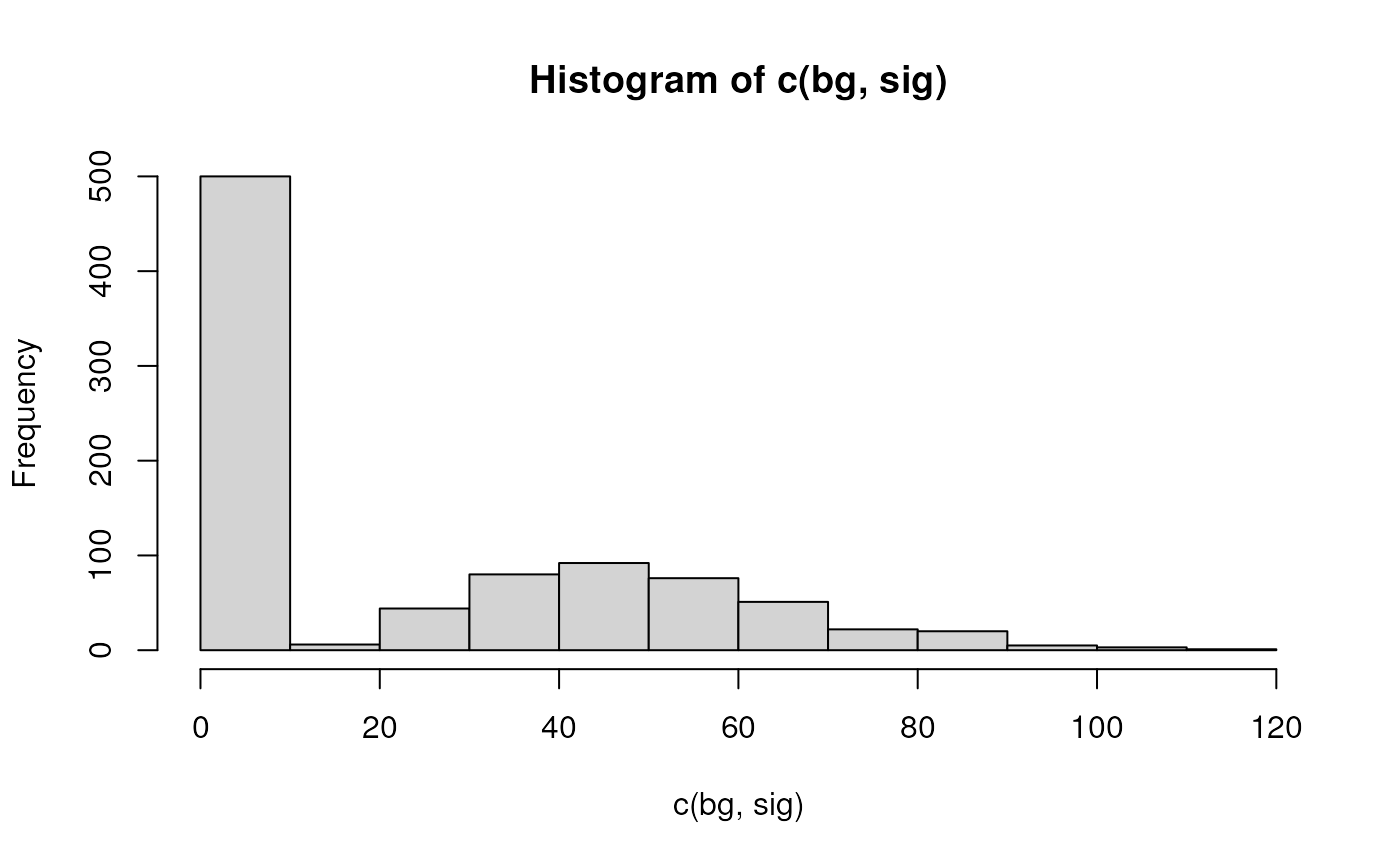
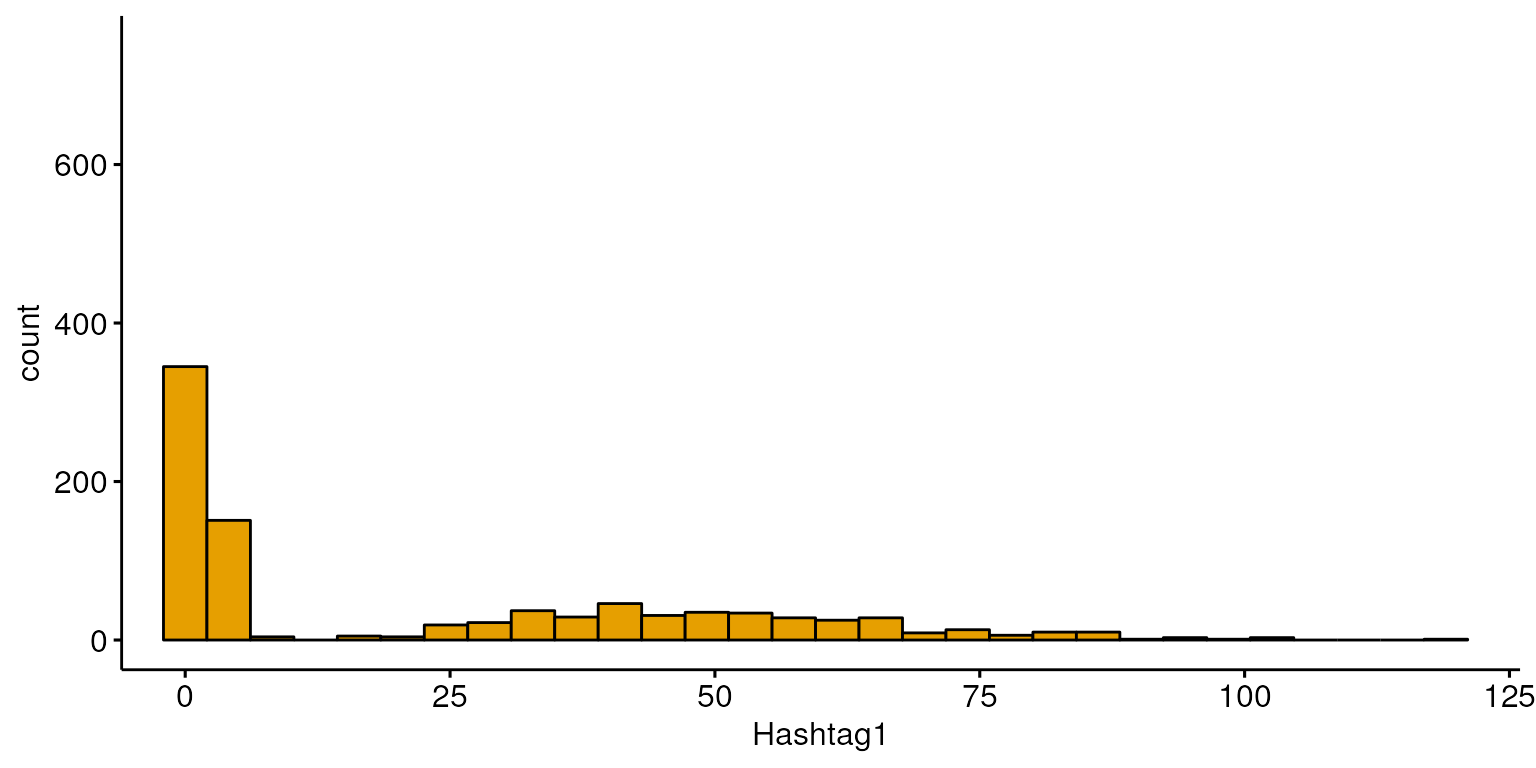
Deploying to gh-pages from @ michaelplynch/demultiplexing-bioc23@4068ee3ce7f346f419e210faec720cbf64df320c 🚀

diff --git a/articles/intro-to-demultiplexing.html b/articles/intro-to-demultiplexing.html
@@ -50,7 +50,7 @@
   </a>
   <ul class="dropdown-menu" role="menu">
 <li>
-      <a href="../articles/demuxSNP.html">Supervised Demultiplexing using Cell Hashing and SNPs</a>
+      <a href="../articles/demuxSNP.html">demuxSNP: supervised demultiplexing using cell hashing and SNPs</a>
     </li>
     <li>
       <a href="../articles/hashing_benchmarking.html">Simulated benchmarking of hashing based algorithms</a>
@@ -115,7 +115,7 @@ Lynch</h4>
 in TME and other areas. Sequencing costs are decreasing but remains a
 limiting factor in sample size.</p>
 <p>For full analysis pipelines see ‘link to OSCA’.</p>
-<p>Multiplexing allows cells from multple biological samples to be
+<p>Multiplexing allows cells from multiple biological samples to be
 laoded simultaneously on the same lane</p>
 <div class="float">
 <img src="./images/scrnaseq.png" alt="alt text here "><div class="figcaption">alt text here </div>
@@ -181,8 +181,8 @@ quality rather than RNA quality.</p>
 <h5 id="overall">Overall:<a class="anchor" aria-label="anchor" href="#overall"></a>
 </h5>
 <div class="sourceCode" id="cb5"><pre class="downlit sourceCode r">
-<code class="sourceCode R"><span><span class="fu"><a href="https://rdrr.io/pkg/ComplexHeatmap/man/Heatmap.html" class="external-link">Heatmap</a></span><span class="op">(</span><span class="fu"><a href="https://rdrr.io/r/base/Log.html" class="external-link">log</a></span><span class="op">(</span><span class="fu"><a href="https://rdrr.io/r/base/matrix.html" class="external-link">as.matrix</a></span><span class="op">(</span><span class="va">hto</span><span class="op">)</span><span class="op">+</span><span class="fl">1</span><span class="op">)</span>,cluster_rows<span class="op">=</span><span class="cn">FALSE</span><span class="op">)</span></span></code></pre></div>
-<p><img src="intro-to-demultiplexing_files/figure-html/unnamed-chunk-4-1.png" width="700"></p>
+<code class="sourceCode R"><span><span class="fu"><a href="https://rdrr.io/pkg/ComplexHeatmap/man/Heatmap.html" class="external-link">Heatmap</a></span><span class="op">(</span><span class="fu"><a href="https://rdrr.io/r/base/Log.html" class="external-link">log</a></span><span class="op">(</span><span class="fu"><a href="https://rdrr.io/r/base/matrix.html" class="external-link">as.matrix</a></span><span class="op">(</span><span class="va">hto</span><span class="op">)</span><span class="op">+</span><span class="fl">1</span><span class="op">)</span>,cluster_rows<span class="op">=</span><span class="cn">FALSE</span>,show_column_names <span class="op">=</span> <span class="cn">FALSE</span><span class="op">)</span></span></code></pre></div>
+<p><img src="intro-to-demultiplexing_files/figure-html/unnamed-chunk-4-1.png" width="100%"></p>
 </div>
 <div class="section level5">
 <h5 id="per-cell">Per cell:<a class="anchor" aria-label="anchor" href="#per-cell"></a>
@@ -194,23 +194,27 @@ quality rather than RNA quality.</p>
 <span><span class="co"># barplot(mat)</span></span>
 <span></span>
 <span><span class="fu"><a href="https://rdrr.io/r/graphics/barplot.html" class="external-link">barplot</a></span><span class="op">(</span><span class="va">hto</span><span class="op">[</span>,<span class="fl">9</span><span class="op">]</span><span class="op">)</span></span></code></pre></div>
-<p><img src="intro-to-demultiplexing_files/figure-html/unnamed-chunk-5-1.png" width="700"></p>
+<p><img src="intro-to-demultiplexing_files/figure-html/unnamed-chunk-5-1.png" width="100%"></p>
+<div class="sourceCode" id="cb7"><pre class="downlit sourceCode r">
+<code class="sourceCode R"><span><span class="va">df</span><span class="op">&lt;-</span><span class="fu"><a href="https://rdrr.io/r/base/data.frame.html" class="external-link">data.frame</a></span><span class="op">(</span><span class="va">hto</span><span class="op">)</span></span>
+<span><span class="va">df</span><span class="op">$</span><span class="va">group</span><span class="op">&lt;-</span><span class="fu"><a href="https://rdrr.io/r/base/colnames.html" class="external-link">rownames</a></span><span class="op">(</span><span class="va">df</span><span class="op">)</span></span>
+<span><span class="fu"><a href="https://ggplot2.tidyverse.org/reference/ggplot.html" class="external-link">ggplot</a></span><span class="op">(</span>data<span class="op">=</span><span class="va">df</span>, <span class="fu"><a href="https://ggplot2.tidyverse.org/reference/aes.html" class="external-link">aes</a></span><span class="op">(</span>x<span class="op">=</span><span class="va">group</span>, y<span class="op">=</span><span class="va">AAGCCGCGTTGTCTTT</span><span class="op">)</span><span class="op">)</span> <span class="op">+</span></span>
+<span>  <span class="fu"><a href="https://ggplot2.tidyverse.org/reference/geom_bar.html" class="external-link">geom_bar</a></span><span class="op">(</span>stat<span class="op">=</span><span class="st">"identity"</span><span class="op">)</span></span></code></pre></div>
+<p><img src="intro-to-demultiplexing_files/figure-html/unnamed-chunk-5-2.png" width="100%"></p>
 </div>
 <div class="section level5">
 <h5 id="per-hashtag">Per hashtag<a class="anchor" aria-label="anchor" href="#per-hashtag"></a>
 </h5>
 <p>Hashtag counts across a Hashtag (bimodal distriution)</p>
-<div class="sourceCode" id="cb7"><pre class="downlit sourceCode r">
+<div class="sourceCode" id="cb8"><pre class="downlit sourceCode r">
 <code class="sourceCode R"><span><span class="fu"><a href="https://rdrr.io/r/base/Random.html" class="external-link">set.seed</a></span><span class="op">(</span><span class="fl">1</span><span class="op">)</span></span>
 <span><span class="va">bg</span><span class="op">&lt;-</span><span class="fu"><a href="https://rdrr.io/r/stats/NegBinomial.html" class="external-link">rnbinom</a></span><span class="op">(</span>n<span class="op">=</span><span class="fl">500</span>,size<span class="op">=</span><span class="fl">5</span>,mu<span class="op">=</span><span class="fl">2</span><span class="op">)</span></span>
 <span><span class="va">sig</span><span class="op">&lt;-</span><span class="fu"><a href="https://rdrr.io/r/stats/NegBinomial.html" class="external-link">rnbinom</a></span><span class="op">(</span>n<span class="op">=</span><span class="fl">400</span>,size<span class="op">=</span><span class="fl">10</span>,mu<span class="op">=</span><span class="fl">50</span><span class="op">)</span></span>
-<span><span class="fu"><a href="https://rdrr.io/r/graphics/hist.html" class="external-link">hist</a></span><span class="op">(</span><span class="fu"><a href="https://rdrr.io/r/base/c.html" class="external-link">c</a></span><span class="op">(</span><span class="va">bg</span>,<span class="va">sig</span><span class="op">)</span><span class="op">)</span></span></code></pre></div>
-<p><img src="intro-to-demultiplexing_files/figure-html/unnamed-chunk-6-1.png" width="700"></p>
-<div class="sourceCode" id="cb8"><pre class="downlit sourceCode r">
-<code class="sourceCode R"><span><span class="va">df</span><span class="op">&lt;-</span><span class="fu"><a href="https://rdrr.io/r/base/data.frame.html" class="external-link">data.frame</a></span><span class="op">(</span><span class="fu"><a href="https://rdrr.io/r/base/c.html" class="external-link">c</a></span><span class="op">(</span><span class="va">bg</span>,<span class="va">sig</span><span class="op">)</span><span class="op">)</span></span>
+<span></span>
+<span><span class="va">df</span><span class="op">&lt;-</span><span class="fu"><a href="https://rdrr.io/r/base/data.frame.html" class="external-link">data.frame</a></span><span class="op">(</span><span class="fu"><a href="https://rdrr.io/r/base/c.html" class="external-link">c</a></span><span class="op">(</span><span class="va">bg</span>,<span class="va">sig</span><span class="op">)</span><span class="op">)</span></span>
 <span><span class="fu"><a href="https://rdrr.io/r/base/colnames.html" class="external-link">colnames</a></span><span class="op">(</span><span class="va">df</span><span class="op">)</span><span class="op">&lt;-</span><span class="st">"Hashtag1"</span></span>
 <span><span class="fu"><a href="https://rpkgs.datanovia.com/ggpubr/reference/gghistogram.html" class="external-link">gghistogram</a></span><span class="op">(</span><span class="va">df</span>, x <span class="op">=</span> <span class="st">"Hashtag1"</span>, fill <span class="op">=</span> <span class="fu"><a href="https://rdrr.io/pkg/dittoSeq/man/dittoColors.html" class="external-link">dittoColors</a></span><span class="op">(</span><span class="fl">1</span><span class="op">)</span><span class="op">[</span><span class="fl">1</span><span class="op">]</span>, palette <span class="op">=</span> <span class="st">"lancet"</span>, xlim <span class="op">=</span> <span class="fu"><a href="https://rdrr.io/r/base/c.html" class="external-link">c</a></span><span class="op">(</span><span class="fl">0</span>, <span class="fl">120</span><span class="op">)</span>, ylim <span class="op">=</span> <span class="fu"><a href="https://rdrr.io/r/base/c.html" class="external-link">c</a></span><span class="op">(</span><span class="fl">0</span>, <span class="fl">750</span><span class="op">)</span>, alpha <span class="op">=</span> <span class="fl">1</span>,bins<span class="op">=</span><span class="fl">30</span><span class="op">)</span></span></code></pre></div>
-<p><img src="intro-to-demultiplexing_files/figure-html/unnamed-chunk-6-2.png" width="700"></p>
+<p><img src="intro-to-demultiplexing_files/figure-html/unnamed-chunk-6-1.png" width="100%"></p>
 <p>Reduction in hashing quality leads to reduction in cell hashing
 algorithm performance.</p>
 </div>
@@ -221,9 +225,16 @@ algorithm performance.</p>
 <p>The second class of methods exploits natural genetic variation
 between cells and so can only be used where the groups are genetically
 distinct.</p>
+<div class="sourceCode" id="cb9"><pre class="downlit sourceCode r">
+<code class="sourceCode R"><span><span class="fu">knitr</span><span class="fu">::</span><span class="fu"><a href="https://rdrr.io/pkg/knitr/man/include_graphics.html" class="external-link">include_graphics</a></span><span class="op">(</span><span class="st">"./images/snps.png"</span><span class="op">)</span></span></code></pre></div>
+<div class="figure">
+<img src="images/snps.png" alt="SNP variation between individuals" width="154"><p class="caption">
+SNP variation between individuals
+</p>
+</div>
 <p>Below we describe a simplified example of what SNP data may look
 like.</p>
-<div class="sourceCode" id="cb9"><pre class="downlit sourceCode r">
+<div class="sourceCode" id="cb10"><pre class="downlit sourceCode r">
 <code class="sourceCode R"><span><span class="fu"><a href="https://rdrr.io/r/base/Random.html" class="external-link">set.seed</a></span><span class="op">(</span><span class="fl">1</span><span class="op">)</span></span>
 <span><span class="va">n</span><span class="op">=</span><span class="fu"><a href="https://rdrr.io/r/base/c.html" class="external-link">c</a></span><span class="op">(</span><span class="fl">50</span>,<span class="fl">50</span>,<span class="fl">50</span>,<span class="fl">50</span><span class="op">)</span></span>
 <span><span class="va">nsnps</span><span class="op">=</span><span class="fl">20</span></span>
@@ -238,21 +249,21 @@ like.</p>
 <span><span class="va">tot_mixed</span><span class="op">&lt;-</span><span class="va">snps_mat</span><span class="op">[</span>,<span class="fu"><a href="https://rdrr.io/r/base/sample.html" class="external-link">sample</a></span><span class="op">(</span><span class="fl">1</span><span class="op">:</span><span class="fu"><a href="https://rdrr.io/r/base/sum.html" class="external-link">sum</a></span><span class="op">(</span><span class="va">n</span><span class="op">)</span><span class="op">)</span><span class="op">]</span></span>
 <span></span>
 <span><span class="fu"><a href="https://rdrr.io/pkg/ComplexHeatmap/man/Heatmap.html" class="external-link">Heatmap</a></span><span class="op">(</span><span class="va">snps_mat</span>,cluster_columns<span class="op">=</span><span class="cn">FALSE</span>,cluster_rows<span class="op">=</span><span class="cn">FALSE</span>,col<span class="op">=</span><span class="va">colors</span><span class="op">)</span></span></code></pre></div>
-<p><img src="intro-to-demultiplexing_files/figure-html/unnamed-chunk-7-1.png" width="700"></p>
-<div class="sourceCode" id="cb10"><pre class="downlit sourceCode r">
-<code class="sourceCode R"><span><span class="fu"><a href="https://rdrr.io/pkg/ComplexHeatmap/man/Heatmap.html" class="external-link">Heatmap</a></span><span class="op">(</span><span class="va">tot_mixed</span>,cluster_columns <span class="op">=</span> <span class="cn">FALSE</span>,cluster_rows<span class="op">=</span><span class="cn">FALSE</span>,col<span class="op">=</span><span class="va">colors</span><span class="op">)</span></span></code></pre></div>
-<p><img src="intro-to-demultiplexing_files/figure-html/unnamed-chunk-7-2.png" width="700"></p>
+<p><img src="intro-to-demultiplexing_files/figure-html/unnamed-chunk-8-1.png" width="700"></p>
 <div class="sourceCode" id="cb11"><pre class="downlit sourceCode r">
+<code class="sourceCode R"><span><span class="fu"><a href="https://rdrr.io/pkg/ComplexHeatmap/man/Heatmap.html" class="external-link">Heatmap</a></span><span class="op">(</span><span class="va">tot_mixed</span>,cluster_columns <span class="op">=</span> <span class="cn">FALSE</span>,cluster_rows<span class="op">=</span><span class="cn">FALSE</span>,col<span class="op">=</span><span class="va">colors</span><span class="op">)</span></span></code></pre></div>
+<p><img src="intro-to-demultiplexing_files/figure-html/unnamed-chunk-8-2.png" width="700"></p>
+<div class="sourceCode" id="cb12"><pre class="downlit sourceCode r">
 <code class="sourceCode R"><span><span class="fu"><a href="https://rdrr.io/pkg/ComplexHeatmap/man/Heatmap.html" class="external-link">Heatmap</a></span><span class="op">(</span><span class="va">tot_mixed</span>,cluster_columns <span class="op">=</span> <span class="cn">TRUE</span>,cluster_rows<span class="op">=</span><span class="cn">FALSE</span>,row_gap <span class="op">=</span> <span class="fu"><a href="https://rdrr.io/r/grid/unit.html" class="external-link">unit</a></span><span class="op">(</span><span class="fl">1</span>, <span class="st">"mm"</span><span class="op">)</span>,</span>
 <span>    column_gap <span class="op">=</span> <span class="fu"><a href="https://rdrr.io/r/grid/unit.html" class="external-link">unit</a></span><span class="op">(</span><span class="fl">1</span>, <span class="st">"mm"</span><span class="op">)</span>,column_split<span class="op">=</span><span class="fl">4</span>, col<span class="op">=</span><span class="va">colors</span><span class="op">)</span></span></code></pre></div>
-<p><img src="intro-to-demultiplexing_files/figure-html/unnamed-chunk-7-3.png" width="700"></p>
+<p><img src="intro-to-demultiplexing_files/figure-html/unnamed-chunk-8-3.png" width="700"></p>
 <p>Sequencing depth, ambient RNA, mutations</p>
 </div>
 </div>
 <div class="section level3">
 <h3 id="sessioninfo">Sessioninfo<a class="anchor" aria-label="anchor" href="#sessioninfo"></a>
 </h3>
-<div class="sourceCode" id="cb12"><pre class="downlit sourceCode r">
+<div class="sourceCode" id="cb13"><pre class="downlit sourceCode r">
 <code class="sourceCode R"><span><span class="fu"><a href="https://rdrr.io/r/utils/sessionInfo.html" class="external-link">sessionInfo</a></span><span class="op">(</span><span class="op">)</span></span></code></pre></div>
 <pre><code><span><span class="co">## R version 4.3.1 (2023-06-16)</span></span>
 <span><span class="co">## Platform: x86_64-pc-linux-gnu (64-bit)</span></span>

diff --git a/articles/demuxSNP.html b/articles/demuxSNP.html
@@ -5,13 +5,13 @@
 <meta charset="utf-8">
 <meta http-equiv="X-UA-Compatible" content="IE=edge">
 <meta name="viewport" content="width=device-width, initial-scale=1.0">
-<title>Supervised Demultiplexing using Cell Hashing and SNPs • demultiplexingbioc23</title>
+<title>demuxSNP: supervised demultiplexing using cell hashing and SNPs • demultiplexingbioc23</title>
 <!-- jquery --><script src="https://cdnjs.cloudflare.com/ajax/libs/jquery/3.4.1/jquery.min.js" integrity="sha256-CSXorXvZcTkaix6Yvo6HppcZGetbYMGWSFlBw8HfCJo=" crossorigin="anonymous"></script><!-- Bootstrap --><link href="https://cdnjs.cloudflare.com/ajax/libs/bootswatch/3.4.0/flatly/bootstrap.min.css" rel="stylesheet" crossorigin="anonymous">
 <script src="https://cdnjs.cloudflare.com/ajax/libs/twitter-bootstrap/3.4.1/js/bootstrap.min.js" integrity="sha256-nuL8/2cJ5NDSSwnKD8VqreErSWHtnEP9E7AySL+1ev4=" crossorigin="anonymous"></script><!-- bootstrap-toc --><link rel="stylesheet" href="../bootstrap-toc.css">
 <script src="../bootstrap-toc.js"></script><!-- Font Awesome icons --><link rel="stylesheet" href="https://cdnjs.cloudflare.com/ajax/libs/font-awesome/5.12.1/css/all.min.css" integrity="sha256-mmgLkCYLUQbXn0B1SRqzHar6dCnv9oZFPEC1g1cwlkk=" crossorigin="anonymous">
 <link rel="stylesheet" href="https://cdnjs.cloudflare.com/ajax/libs/font-awesome/5.12.1/css/v4-shims.min.css" integrity="sha256-wZjR52fzng1pJHwx4aV2AO3yyTOXrcDW7jBpJtTwVxw=" crossorigin="anonymous">
 <!-- clipboard.js --><script src="https://cdnjs.cloudflare.com/ajax/libs/clipboard.js/2.0.6/clipboard.min.js" integrity="sha256-inc5kl9MA1hkeYUt+EC3BhlIgyp/2jDIyBLS6k3UxPI=" crossorigin="anonymous"></script><!-- headroom.js --><script src="https://cdnjs.cloudflare.com/ajax/libs/headroom/0.11.0/headroom.min.js" integrity="sha256-AsUX4SJE1+yuDu5+mAVzJbuYNPHj/WroHuZ8Ir/CkE0=" crossorigin="anonymous"></script><script src="https://cdnjs.cloudflare.com/ajax/libs/headroom/0.11.0/jQuery.headroom.min.js" integrity="sha256-ZX/yNShbjqsohH1k95liqY9Gd8uOiE1S4vZc+9KQ1K4=" crossorigin="anonymous"></script><!-- pkgdown --><link href="../pkgdown.css" rel="stylesheet">
-<script src="../pkgdown.js"></script><meta property="og:title" content="Supervised Demultiplexing using Cell Hashing and SNPs">
+<script src="../pkgdown.js"></script><meta property="og:title" content="demuxSNP: supervised demultiplexing using cell hashing and SNPs">
 <meta property="og:description" content="demultiplexingbioc23">
 <!-- mathjax --><script src="https://cdnjs.cloudflare.com/ajax/libs/mathjax/2.7.5/MathJax.js" integrity="sha256-nvJJv9wWKEm88qvoQl9ekL2J+k/RWIsaSScxxlsrv8k=" crossorigin="anonymous"></script><script src="https://cdnjs.cloudflare.com/ajax/libs/mathjax/2.7.5/config/TeX-AMS-MML_HTMLorMML.js" integrity="sha256-84DKXVJXs0/F8OTMzX4UR909+jtl4G7SPypPavF+GfA=" crossorigin="anonymous"></script><!--[if lt IE 9]>
 <script src="https://oss.maxcdn.com/html5shiv/3.7.3/html5shiv.min.js"></script>
@@ -50,7 +50,7 @@
   </a>
   <ul class="dropdown-menu" role="menu">
 <li>
-      <a href="../articles/demuxSNP.html">Supervised Demultiplexing using Cell Hashing and SNPs</a>
+      <a href="../articles/demuxSNP.html">demuxSNP: supervised demultiplexing using cell hashing and SNPs</a>
     </li>
     <li>
       <a href="../articles/hashing_benchmarking.html">Simulated benchmarking of hashing based algorithms</a>
@@ -81,8 +81,8 @@
       </header><div class="row">
   <div class="col-md-9 contents">
     <div class="page-header toc-ignore">
-      <h1 data-toc-skip>Supervised Demultiplexing using Cell Hashing and
-SNPs</h1>
+      <h1 data-toc-skip>demuxSNP: supervised demultiplexing using cell
+hashing and SNPs</h1>
                         <h4 data-toc-skip class="author">Michael
 Lynch</h4>
             <address class="author_afil">
@@ -113,56 +113,21 @@ Culhane</h4>
 <div class="section level2">
 <h2 id="introduction">Introduction<a class="anchor" aria-label="anchor" href="#introduction"></a>
 </h2>
-<p>Multiplexing in scRNAseq involves the sequencing of samples from
-different patients, treatment types or physiological locations together,
-resulting in significant cost savings. The cells must then be
-demultiplexed, or assigned back to their respective groups. A number of
-experimental and computational methods have been proposed to facilitate
-this, but a universally robust algorithm remains elusive. Below, we
-introduce some existing methods, highlight the novel features of our
-approach and its advantages to the user.</p>
+<p>Reminder, demultiplexing allows reduction of sequencing costs by
+sequencing cells from mulitple biological sampels on the same lane, as
+well as allowing identifying of the increased proportion of doublets
+associated with greater cells loaded. Poor demultiplexing performance
+results in waste in valuable data, reduction in LFC used in DE or
+otherwise potentailly confusing results.</p>
 <div class="section level3">
 <h3 id="existing-methods">Existing Methods<a class="anchor" aria-label="anchor" href="#existing-methods"></a>
 </h3>
-<div class="section level4">
-<h4 id="cell-hashing">Cell Hashing<a class="anchor" aria-label="anchor" href="#cell-hashing"></a>
-</h4>
-<p>Cells from each group are labelled with a distinct tag (HTO or LMO)
-which is sequenced to give a counts matrix. Due to non-specific binding,
-these counts form a bimodal distribution. Such methods are generally
-computationally efficient. Their classification performance, however, is
-highly dependent on the tagging quality and many methods do not account
-for uncertainty in classification (<span class="citation">Boggy et al.
-(2022)</span>, <span class="citation">Kim et al. (2020)</span> &amp;
-<span class="citation">Stoeckius et al. (2018)</span>).</p>
-<p>More recent methods, including <a href="https://bioconductor.org/packages/release/bioc/html/demuxmix.html" class="external-link">demuxmix</a>,
-assign a probability that a cell is from a particular group, or made up
-of multiple groups (doublet). This allows users to define a cut-off
-threshold for the assignment confidence. Accounting for uncertainty is
-an important feature for these types of algorithms. But, while they give
-the user greater flexibility in determining which cells to keep, this
-ultimately results in a trade-off between keeping cells which cannot be
-confidently called or discarding them - due to issues with tagging
-quality rather than RNA quality.</p>
-</div>
-<div class="section level4">
-<h4 id="snps">SNPs<a class="anchor" aria-label="anchor" href="#snps"></a>
-</h4>
-<p>The second class of methods exploits natural genetic variation
-between cells and so can only be used where the groups are genetically
-distinct. Demuxlet (<span class="citation">Kang et al. (2018)</span>)
-uses genotype information from each group to classify samples. This
-genotyping incurs additional experimental cost. To address this,
-Souporcell (<span class="citation">Heaton et al. (2020)</span>) and
-Vireo (<span class="citation">Huang, McCarthy, and Stegle (2019)</span>)
-among other methods were developed to classify cells based on their SNPs
-in an unsupervised manner. Without prior knowledge of the SNPs
-associated with each group, these unsupervised methods may confuse
-groups with lower cell counts for other signals in the data.</p>
-<p>Demuxlet remains the standard often used to benchmark other methods
-but its more widespread adoption has been limited by the requirement of
-sample genotype information.</p>
-</div>
+<p>Weaknesses (find a better word for this) of existing methods:</p>
+<p>Hashing algorithms can correctly call some but not all cells
+correctly and is highly dependent on the hashing quality</p>
+<p>SNPs algorithms either: require genotype information (demuxlet) which
+incurs additional cost struggle to identify rarer samples (due to lack
+of genotype information)</p>
 </div>
 <div class="section level3">
 <h3 id="demuxsnp-motivation">demuxSNP Motivation<a class="anchor" aria-label="anchor" href="#demuxsnp-motivation"></a>
@@ -246,7 +211,7 @@ refer to relevant documentation.</p>
 <span><span class="fu"><a href="https://rdrr.io/r/base/table.html" class="external-link">table</a></span><span class="op">(</span><span class="va">small_sce</span><span class="op">$</span><span class="va">knn</span><span class="op">)</span></span>
 <span><span class="co">#&gt; </span></span>
 <span><span class="co">#&gt;  Doublet Hashtag1 Hashtag3 Hashtag4 Hashtag5 Hashtag6 </span></span>
-<span><span class="co">#&gt;       25       10       17        7        9       32</span></span></code></pre></div>
+<span><span class="co">#&gt;       26       11       12        7       12       32</span></span></code></pre></div>
 <div class="section level4">
 <h4 id="function-explanation">Function Explanation<a class="anchor" aria-label="anchor" href="#function-explanation"></a>
 </h4>
@@ -766,50 +731,8 @@ see that this most likely is a true Hashtag6.</p>
 <span><span class="co">#&gt; [169] cluster_2.1.4            globals_0.16.2</span></span></code></pre></div>
 </div>
 <div class="section level2">
-<h2 class="unnumbered" id="references">References<a class="anchor" aria-label="anchor" href="#references"></a>
+<h2 id="references">References<a class="anchor" aria-label="anchor" href="#references"></a>
 </h2>
-<div id="refs" class="references csl-bib-body hanging-indent">
-<div id="ref-boggy_bff_2022" class="csl-entry">
-Boggy, Gregory J, G W McElfresh, Eisa Mahyari, Abigail B Ventura, Scott
-G Hansen, Louis J Picker, and Benjamin N Bimber. 2022.
-<span>“<span>BFF</span> and <span class="nocase">cellhashR</span>:
-Analysis Tools for Accurate Demultiplexing of Cell Hashing Data.”</span>
-<em>Bioinformatics</em> 38 (10): 2791–801. <a href="https://doi.org/10.1093/bioinformatics/btac213" class="external-link">https://doi.org/10.1093/bioinformatics/btac213</a>.
-</div>
-<div id="ref-heaton_souporcell_2020" class="csl-entry">
-Heaton, Haynes, Arthur M. Talman, Andrew Knights, Maria Imaz, Daniel J.
-Gaffney, Richard Durbin, Martin Hemberg, and Mara K. N. Lawniczak. 2020.
-<span>“Souporcell: Robust Clustering of Single-Cell <span>RNA</span>-Seq
-Data by Genotype Without Reference Genotypes.”</span> <em>Nature
-Methods</em> 17 (6): 615–20. <a href="https://doi.org/10.1038/s41592-020-0820-1" class="external-link">https://doi.org/10.1038/s41592-020-0820-1</a>.
-</div>
-<div id="ref-huang_vireo_2019" class="csl-entry">
-Huang, Yuanhua, Davis J. McCarthy, and Oliver Stegle. 2019.
-<span>“Vireo: <span>Bayesian</span> Demultiplexing of Pooled Single-Cell
-<span>RNA</span>-Seq Data Without Genotype Reference.”</span> <em>Genome
-Biology</em> 20 (1): 273. <a href="https://doi.org/10.1186/s13059-019-1865-2" class="external-link">https://doi.org/10.1186/s13059-019-1865-2</a>.
-</div>
-<div id="ref-kang_multiplexed_2018" class="csl-entry">
-Kang, Hyun Min, Meena Subramaniam, Sasha Targ, Michelle Nguyen, Lenka
-Maliskova, Elizabeth McCarthy, Eunice Wan, et al. 2018.
-<span>“Multiplexed Droplet Single-Cell <span>RNA</span>-Sequencing Using
-Natural Genetic Variation.”</span> <em>Nature Biotechnology</em> 36 (1):
-89–94. <a href="https://doi.org/10.1038/nbt.4042" class="external-link">https://doi.org/10.1038/nbt.4042</a>.
-</div>
-<div id="ref-kim_citefuse_2020" class="csl-entry">
-Kim, Hani Jieun, Yingxin Lin, Thomas A Geddes, Jean Yee Hwa Yang, and
-Pengyi Yang. 2020. <span>“<span>CiteFuse</span> Enables Multi-Modal
-Analysis of <span>CITE</span>-Seq Data.”</span> <em>Bioinformatics</em>
-36 (14): 4137–43. <a href="https://doi.org/10.1093/bioinformatics/btaa282" class="external-link">https://doi.org/10.1093/bioinformatics/btaa282</a>.
-</div>
-<div id="ref-stoeckius_cell_2018" class="csl-entry">
-Stoeckius, Marlon, Shiwei Zheng, Brian Houck-Loomis, Stephanie Hao,
-Bertrand Z. Yeung, William M. Mauck, Peter Smibert, and Rahul Satija.
-2018. <span>“Cell <span>Hashing</span> with Barcoded Antibodies Enables
-Multiplexing and Doublet Detection for Single Cell Genomics.”</span>
-<em>Genome Biology</em> 19 (1): 224. <a href="https://doi.org/10.1186/s13059-018-1603-1" class="external-link">https://doi.org/10.1186/s13059-018-1603-1</a>.
-</div>
-</div>
 </div>
   </div>
 

diff --git a/articles/index.html b/articles/index.html
@@ -32,7 +32,7 @@
     <span class="caret"></span>
   </a>
   <ul class="dropdown-menu" role="menu"><li>
-      <a href="../articles/demuxSNP.html">Supervised Demultiplexing using Cell Hashing and SNPs</a>
+      <a href="../articles/demuxSNP.html">demuxSNP: supervised demultiplexing using cell hashing and SNPs</a>
     </li>
     <li>
       <a href="../articles/hashing_benchmarking.html">Simulated benchmarking of hashing based algorithms</a>
@@ -63,7 +63,7 @@
       <h3>All vignettes</h3>
       <p class="section-desc"></p>
 
-      <dl><dt><a href="demuxSNP.html">Supervised Demultiplexing using Cell Hashing and SNPs</a></dt>
+      <dl><dt><a href="demuxSNP.html">demuxSNP: supervised demultiplexing using cell hashing and SNPs</a></dt>
         <dd>
         </dd><dt><a href="hashing_benchmarking.html">Simulated benchmarking of hashing based algorithms</a></dt>
         <dd>

diff --git a/404.html b/404.html
@@ -49,7 +49,7 @@
   </a>
   <ul class="dropdown-menu" role="menu">
 <li>
-      <a href="https://michaelplynch.github.io/demultiplexing-bioc23/articles/demuxSNP.html">Supervised Demultiplexing using Cell Hashing and SNPs</a>
+      <a href="https://michaelplynch.github.io/demultiplexing-bioc23/articles/demuxSNP.html">demuxSNP: supervised demultiplexing using cell hashing and SNPs</a>
     </li>
     <li>
       <a href="https://michaelplynch.github.io/demultiplexing-bioc23/articles/hashing_benchmarking.html">Simulated benchmarking of hashing based algorithms</a>

diff --git a/reference/index.html b/reference/index.html
@@ -32,7 +32,7 @@
     <span class="caret"></span>
   </a>
   <ul class="dropdown-menu" role="menu"><li>
-      <a href="../articles/demuxSNP.html">Supervised Demultiplexing using Cell Hashing and SNPs</a>
+      <a href="../articles/demuxSNP.html">demuxSNP: supervised demultiplexing using cell hashing and SNPs</a>
     </li>
     <li>
       <a href="../articles/hashing_benchmarking.html">Simulated benchmarking of hashing based algorithms</a>

diff --git a/LICENSE-text.html b/LICENSE-text.html
@@ -32,7 +32,7 @@
     <span class="caret"></span>
   </a>
   <ul class="dropdown-menu" role="menu"><li>
-      <a href="articles/demuxSNP.html">Supervised Demultiplexing using Cell Hashing and SNPs</a>
+      <a href="articles/demuxSNP.html">demuxSNP: supervised demultiplexing using cell hashing and SNPs</a>
     </li>
     <li>
       <a href="articles/hashing_benchmarking.html">Simulated benchmarking of hashing based algorithms</a>

diff --git a/LICENSE.html b/LICENSE.html
@@ -32,7 +32,7 @@
     <span class="caret"></span>
   </a>
   <ul class="dropdown-menu" role="menu"><li>
-      <a href="articles/demuxSNP.html">Supervised Demultiplexing using Cell Hashing and SNPs</a>
+      <a href="articles/demuxSNP.html">demuxSNP: supervised demultiplexing using cell hashing and SNPs</a>
     </li>
     <li>
       <a href="articles/hashing_benchmarking.html">Simulated benchmarking of hashing based algorithms</a>

diff --git a/authors.html b/authors.html
@@ -32,7 +32,7 @@
     <span class="caret"></span>
   </a>
   <ul class="dropdown-menu" role="menu"><li>
-      <a href="articles/demuxSNP.html">Supervised Demultiplexing using Cell Hashing and SNPs</a>
+      <a href="articles/demuxSNP.html">demuxSNP: supervised demultiplexing using cell hashing and SNPs</a>
     </li>
     <li>
       <a href="articles/hashing_benchmarking.html">Simulated benchmarking of hashing based algorithms</a>

diff --git a/articles/hashing_benchmarking.html b/articles/hashing_benchmarking.html
@@ -50,7 +50,7 @@
   </a>
   <ul class="dropdown-menu" role="menu">
 <li>
-      <a href="../articles/demuxSNP.html">Supervised Demultiplexing using Cell Hashing and SNPs</a>
+      <a href="../articles/demuxSNP.html">demuxSNP: supervised demultiplexing using cell hashing and SNPs</a>
     </li>
     <li>
       <a href="../articles/hashing_benchmarking.html">Simulated benchmarking of hashing based algorithms</a>

diff --git a/index.html b/index.html
@@ -51,7 +51,7 @@
   </a>
   <ul class="dropdown-menu" role="menu">
 <li>
-      <a href="articles/demuxSNP.html">Supervised Demultiplexing using Cell Hashing and SNPs</a>
+      <a href="articles/demuxSNP.html">demuxSNP: supervised demultiplexing using cell hashing and SNPs</a>
     </li>
     <li>
       <a href="articles/hashing_benchmarking.html">Simulated benchmarking of hashing based algorithms</a>
